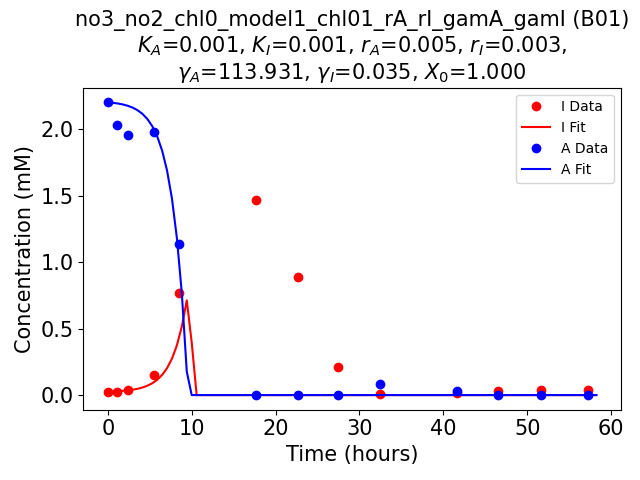
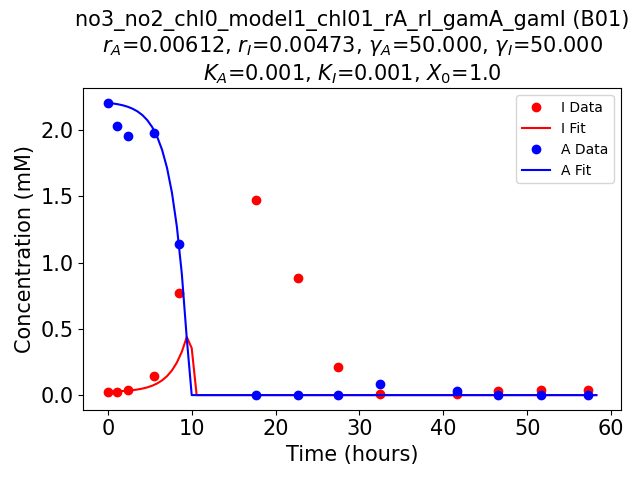
chl01 fi

diff --git a/model_fit_chl01_20250317.py b/model_fit_chl01_20250317.py
@@ -18,7 +18,7 @@ no3_chl1 = pd.read_csv(f'concentrations/no3_chl1_evap.csv', index_col=0)
 no2_chl1 = pd.read_csv(f'concentrations/no2_chl1_evap.csv', index_col=0)
 data_str = 'no3_no2'
 
-for row in ['B01', 'C04', 'D07', 'F01']:
+for row in ['B01']:
     A_chl0 = no3_chl0.loc[row]
     I_chl0 = no2_chl0.loc[row]
     A_chl1 = no3_chl1.loc[row]
@@ -29,12 +29,12 @@ for row in ['B01', 'C04', 'D07', 'F01']:
     # Create lmfit Parameters with optional constraints
     params = Parameters()
     #params.add('eps',  value=0.1, min=1e-3, max=1)
-    params.add('K_A',  value=0.001, min=1e-3, max=1, vary=False)
-    params.add('K_I',  value=0.001, min=1e-3, max=1, vary=False)
-    params.add('r_A',  value=1.0, min=1e-3, max=1e3)
-    params.add('r_I',  value=1.0, min=1e-3, max=1e3)
-    params.add('gamA', value=1.0, min=1e-3, max=1e3)
-    params.add('gamI', value=1.0, min=1e-3, max=1e3)
+    params.add('K_A',  value=0.001, min=1e-5, max=1, vary=False)
+    params.add('K_I',  value=0.001, min=1e-5, max=1, vary=False)
+    params.add('r_A',  value=1.0, min=0, max=1e2)
+    params.add('r_I',  value=1.0, min=0, max=1e2)
+    params.add('gamA', value=1.0, min=0, max=1e2)
+    params.add('gamI', value=1.0, min=0, max=1e2)
     #params.add('gamI', expr='r_A * gamA / r_I')  # Constraint: r_A * gamA = r_I * gamI
     params.add('X0',   value=1.0, min=0, max=100, vary=False)
     fit_str = 'model1_chl01_rA_rI_gamA_gamI'
@@ -55,6 +55,8 @@ for row in ['B01', 'C04', 'D07', 'F01']:
         num_iterations += 1
 
     result = best_result
+    with open(f'fitting_results/{data_str}_{fit_str}_{row}.pkl', 'wb') as f:
+        pickle.dump(result, f)
     params = result.params
     print('=====Best-fit values=====')
     for param_name, param in result.params.items():
@@ -94,8 +96,8 @@ for row in ['B01', 'C04', 'D07', 'F01']:
     plt.ylabel('Concentration (mM)', fontsize=15)
     plt.tick_params(axis='both', which='major', labelsize=15)
     plt.title(f'{data_str}_chl0_{fit_str} ({row})\n'
-            f'$K_A$={K_A_best:.3f}, $K_I$={K_I_best:.3f}, $r_A$={r_A_best:.3f}, $r_I$={r_I_best:.3f},\n'
-            f'$\gamma_A$={gamA_best:.3f}, $\gamma_I$={gamI_best:.3f}, $X_0$={X0_best:.3f}',
+            f'$r_A$={r_A_best:.5f}, $r_I$={r_I_best:.5f}, $\gamma_A$={gamA_best:.3f}, $\gamma_I$={gamI_best:.3f}\n'
+            f'$K_A$={K_A_best:.3f}, $K_I$={K_I_best:.3f}, $X_0$={X0_best:.1f}',
             fontsize=15)
     plt.legend()
     plt.tight_layout()
@@ -114,8 +116,8 @@ for row in ['B01', 'C04', 'D07', 'F01']:
     plt.ylabel('Concentration (mM)', fontsize=15)
     plt.tick_params(axis='both', which='major', labelsize=15)
     plt.title(f'{data_str}_chl1_{fit_str} ({row})\n'
-            f'$K_A$={K_A_best:.3f}, $K_I$={K_I_best:.3f}, $r_A$={r_A_best:.3f}, $r_I$={r_I_best:.3f},\n'
-            f'$\gamma_A$={gamA_best:.3f}, $\gamma_I$={gamI_best:.3f}, $X_0$={X0_best:.3f}',
+            f'$r_A$={r_A_best:.5f}, $r_I$={r_I_best:.5f}, $\gamma_A$=0.0, $\gamma_I$=0.0\n'
+            f'$K_A$={K_A_best:.3f}, $K_I$={K_I_best:.3f}, $X_0$={X0_best:.1f}',
             fontsize=15)
     plt.legend()
     plt.tight_layout()
